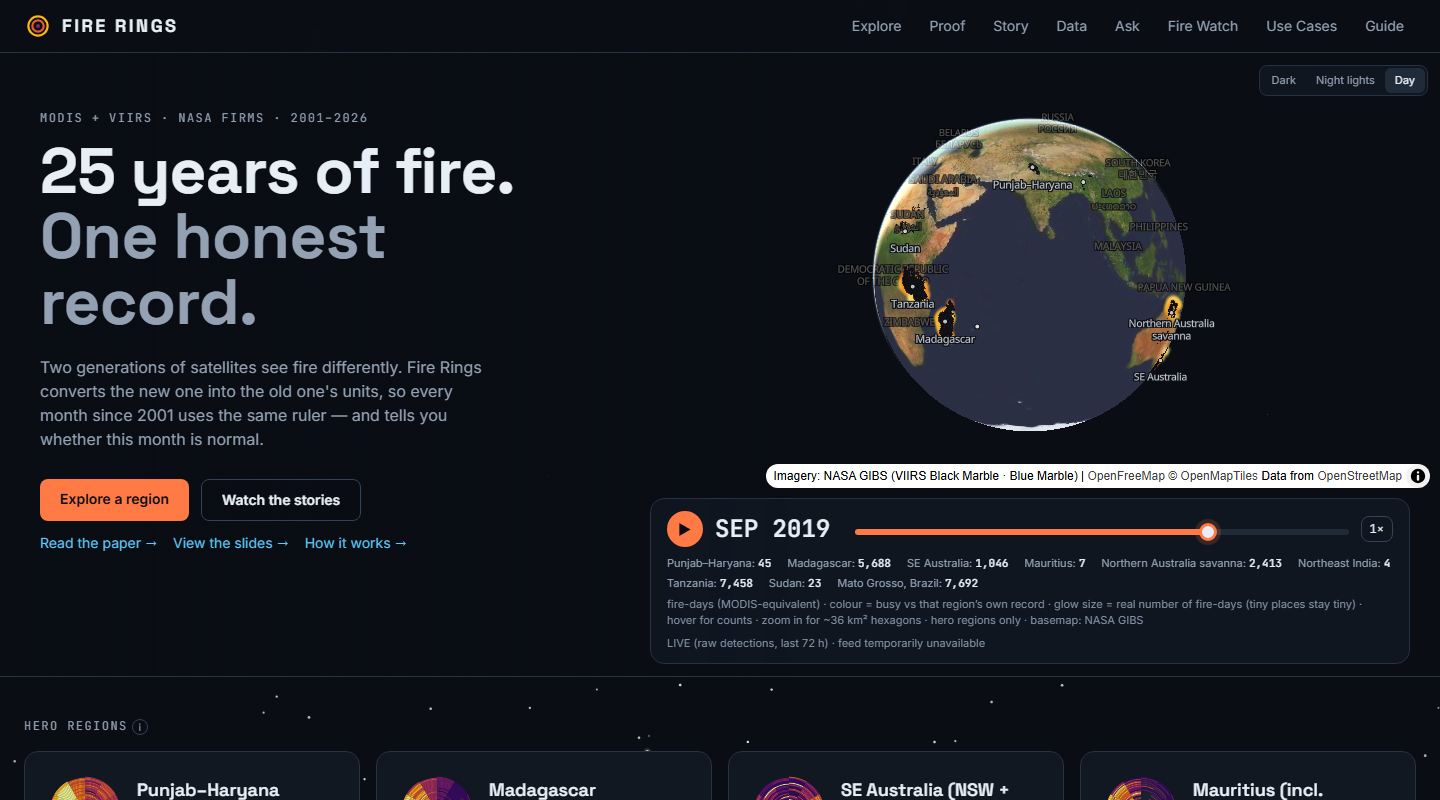
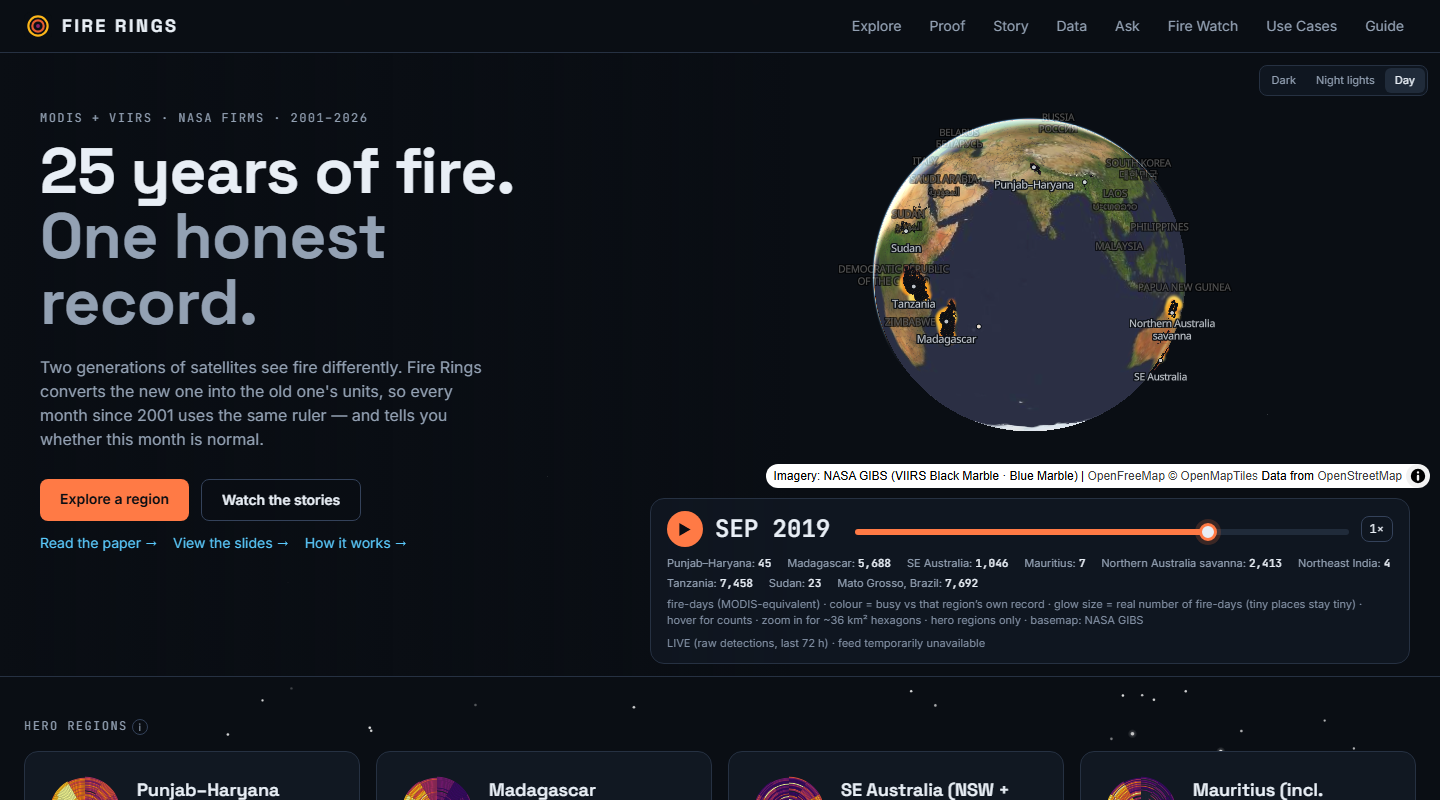
Round 9: home globe zoom cap 6 -> 9 with "Zoom limit reached" prompt
- GLOBE_MAX_ZOOM 9: whole of Mauritius fits, ~36 km2 hexagons ~55 px across,
  no grey tiles (GIBS Level 8 over-zoomed one level), hero text untouched at
  1280/1366/1440/1536/1920. Zoom 10 blurs the NASA imagery and small regions no longer fit.
- Prompt at the cap: "Zoom limit reached — open the detailed map →" to /r/{region}
  (same near-region chip logic).
- e2e #78: new cap, prompt + link, hexagon size, 5 sizes, Madagascar + Punjab;
  small-dot check polls instead of a fixed wait.
- PROGRESS.md Round 9.

Changed region(s): [[0.5938, 0.1562, 0.8125, 0.4375], [0.7812, 0.375, 0.8438, 0.4375]]

diff --git a/web/src/components/GlobeTimelapse.tsx b/web/src/components/GlobeTimelapse.tsx
@@ -88,8 +88,10 @@ function useGlobe(ready: boolean): Globe | null {
 
 /** Zoom at which the globe switches from res-4 blocks / small-island dots to ~36 km² res-6 hexagons (QA #65). */
 const FINE_ZOOM = 3.6
-/** #78: the home globe stays a globe / country view; deeper zoom belongs to the region page (chip at the cap). */
-const GLOBE_MAX_ZOOM = 6
+/** #78 / Round 9: cap of the home globe. At 9 a whole island like Mauritius fits the box and each ~36 km² hexagon is
+ *  ~55 px across. GIBS serves up to Level 8, so 9 is one level over-zoomed (a little soft, never a grey tile); from 10
+ *  the NASA imagery blurs and small regions no longer fit, so deeper zoom belongs to the region page (prompt at the cap). */
+const GLOBE_MAX_ZOOM = 9
 // same Inferno family as the map, started bright so the lowest values never look like holes (QA #65b, like #18)
 const RAMP = ['interpolate', ['linear'], ['get', 't'], 0, '#A52C60', 0.3, '#D24A3E', 0.55, '#F07F17', 0.8, '#FBC12E', 1, '#FCFFA4']
 
@@ -323,8 +325,9 @@ export default function GlobeTimelapse({ docs, live }: Props) {
       <div ref={el} className="min-h-0 w-full flex-1" role="region" aria-label={`Globe showing monthly fire activity in the ${docs.length} hero regions`}
         data-testid="globe-map" />
       {near && (
-        <Link to={`/r/${near.id}`} className="absolute top-3 left-3 z-10 rounded-full border border-accent/60 bg-surface/90 px-3 py-1 text-xs font-semibold text-text no-underline backdrop-blur hover:bg-surface-2" data-testid="globe-explore-chip">
-          Explore {near.name} →</Link>
+        <Link to={`/r/${near.id}`} className="absolute top-3 left-3 z-10 rounded-full border border-accent/60 bg-surface/90 px-3 py-1 text-xs font-semibold text-text no-underline backdrop-blur hover:bg-surface-2" data-testid="globe-explore-chip"
+          data-region={near.id} aria-label={`Zoom limit reached — open the detailed map of ${near.name} in Explore`} title={`Open ${near.name} in Explore`}>
+          Zoom limit reached — open the detailed map →</Link>
       )}
         <div role="group" aria-label="Globe style" className="absolute top-3 right-3 z-10 flex rounded-sm border border-border bg-surface/85 p-0.5 text-[11px] backdrop-blur" data-testid="globe-style">
           {(['dark', 'night', 'day'] as GlobeStyle[]).map((k) => (

diff --git a/PROGRESS.md b/PROGRESS.md
@@ -4,6 +4,16 @@ Resume any session with: **"Continue from PROGRESS.md"** (read this file + CLAUD
 Status keys: `todo` · `doing` · `done` · `blocked`
 Live: https://fire-rings.vercel.app (Vercel, root = web, auto-deploys on push to main)
 
+## Round 9 — home globe zoom (14 Nov)
+
+| Item | Status | Notes |
+|---|---|---|
+| Why the cap was 6 | checked | #78 capped zoom to stop the globe covering the hero text and to avoid grey boxes. Today the globe box starts right of the hero text (`lg:left-[620px]`), so zoom can't cover it at any size. NASA GIBS serves tiles up to Level 8, and MapLibre over-zooms above that, so no level gives grey tiles. They only soften. |
+| New cap: **9** (`GLOBE_MAX_ZOOM`) | done | Probed zoom 6–11 × 1280/1366/1440/1536/1920 × Dark/Night/Day over Mauritius, Madagascar, Punjab. At 9 the whole of Mauritius fits the box (just under it at 1366×768), each ~36 km² hexagon is ~52–59 px across, no grey tiles, no overlap with the hero text. At 10 the island no longer fits and Night/Day imagery is two levels over-zoomed (blurry), so 9 is the limit. No tile-source change needed. |
+| Prompt at the cap | done | "Zoom limit reached — open the detailed map →" links to `/r/{region}` (Explore) for the region in view. Chip logic is unchanged (within 1.5° of a region's box, zoom ≥ cap − 0.25). aria-label names the region. |
+| e2e #78 | done | Now 9 checks: Mauritius at 1280/1366/1440/1536/1920, plus Madagascar and Punjab at 1366 and 1920. Each one checks zoom = 9, the prompt text and link, hexagons ≥ 30 px, canvas clear of hero text, no grey corners. Also made "Mauritius is a small dot at world zoom" poll for up to 15 s; it failed once on a cold load (OpenFreeMap style slow). |
+| Tests | done | pytest 136 pass (snapshot green) · build + lint OK · e2e **103 pass / 1 known fail** (missing Sudan/Mato Grosso briefings, Gemini quota, as in Round 8) · claims_check 410/412 (same 2) · ask_e2e 109/144 (35 known missing answers) · guide_check pass. Flakes seen once each in earlier runs and passing on rerun: #76 default-view tiles, a region map legend timeout in claims_check. |
+
 ## Round 8 — gate v1.2 + Sudan & Brazil + hotspot CSV (13 Nov)
 
 | Item | Status | Notes |
